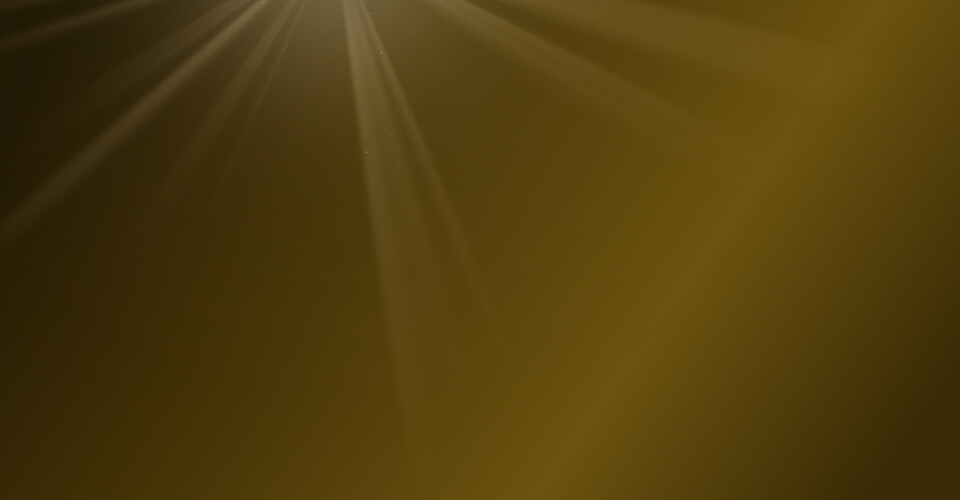
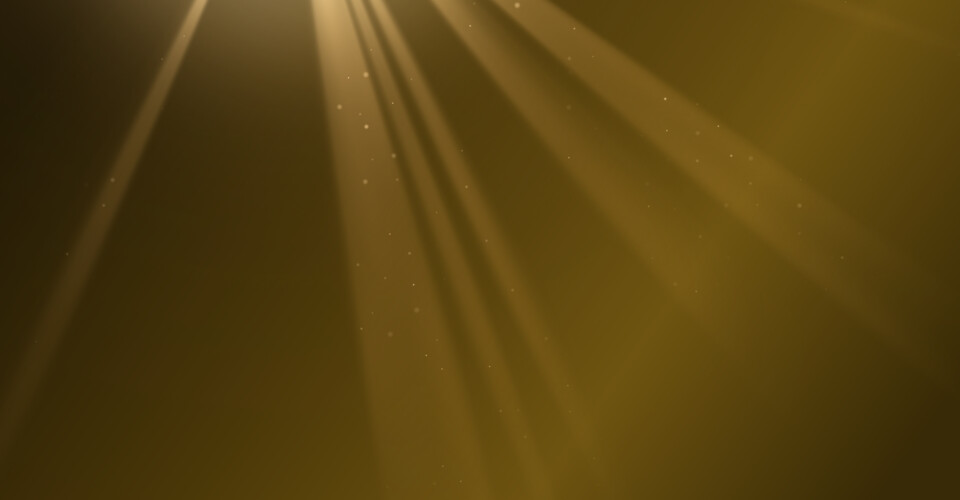
Retake the Fog, Sunbeams and Patterns page screenshots (#66) (#67)

diff --git a/README.md b/README.md
@@ -85,11 +85,11 @@ at this size. How a pattern is written, and what keeps it cheap, is in
   <tr>
     <td align="center"><img src="docs/screenshots/patterns/bokeh.jpg" alt="Soft, pale, out-of-focus circles on a dark red background"><br><b>Bokeh</b><br><sub>Out-of-focus lights rising and fading</sub></td>
     <td align="center"><img src="docs/screenshots/patterns/clouds.jpg" alt="Grey and white clouds on a near-black sky"><br><b>Clouds</b><br><sub>Soft clouds drifting overhead, lit from above</sub></td>
-    <td align="center"><img src="docs/screenshots/patterns/sunbeams.jpg" alt="Rays of warm light fanning down from the top left over a gold background"><br><b>Sunbeams</b><br><sub>Shafts of warm light, with dust turning in them</sub></td>
+    <td align="center"><img src="docs/screenshots/patterns/sunbeams.jpg" alt="Broad shafts of warm light fanning down from the top over a gold background, with specks of dust glinting in them"><br><b>Sunbeams</b><br><sub>Shafts of warm light, with dust turning in them</sub></td>
   </tr>
   <tr>
     <td align="center"><img src="docs/screenshots/patterns/lightning.jpg" alt="A forked violet-white bolt of lightning under a glow in dark grey cloud"><br><b>Lightning</b><br><sub>Flashes in the clouds and forked bolts</sub></td>
-    <td align="center"><img src="docs/screenshots/patterns/fog.jpg" alt="A pale bank of fog across the lower half of a dark gold background"><br><b>Fog</b><br><sub>Low banks of mist rolling slowly past</sub></td>
+    <td align="center"><img src="docs/screenshots/patterns/fog.jpg" alt="Soft banks of pale mist rolling along the lower half of a dark blue background"><br><b>Fog</b><br><sub>Low banks of mist rolling slowly past</sub></td>
     <td align="center"><img src="docs/screenshots/patterns/snow.jpg" alt="White snowflakes of several sizes on a dark blue background"><br><b>Snow</b><br><sub>Flakes at several depths, swaying in the wind</sub></td>
   </tr>
   <tr>
@@ -194,7 +194,7 @@ Open them in the Extensions app, or with `gnome-extensions prefs wallpaper-fx@ja
 <table>
   <tr>
     <td align="center" width="50%"><img src="docs/screenshots/scenes.png" alt="The Scenes page: the Weather group with Follow the Weather off, Weather Sets the Sky on and the Place row reading Bergen, from GNOME Weather, then Your Scenes with Save Your Look As…"><br><b>Scenes</b></td>
-    <td align="center" width="50%"><img src="docs/screenshots/prefs.png" alt="The Patterns page: a list of patterns, each with a description and a switch, with Nebula, Starfield and Constellation switched on"><br><b>Patterns</b></td>
+    <td align="center" width="50%"><img src="docs/screenshots/prefs.png" alt="The Patterns page, scrolled to where the Ambient group ends and the Weather group begins: Constellation switched on above, then Clouds, Sunbeams, Lightning, Fog and Snow, each with a description, a switch and an expander"><br><b>Patterns</b></td>
   </tr>
 </table>
 
